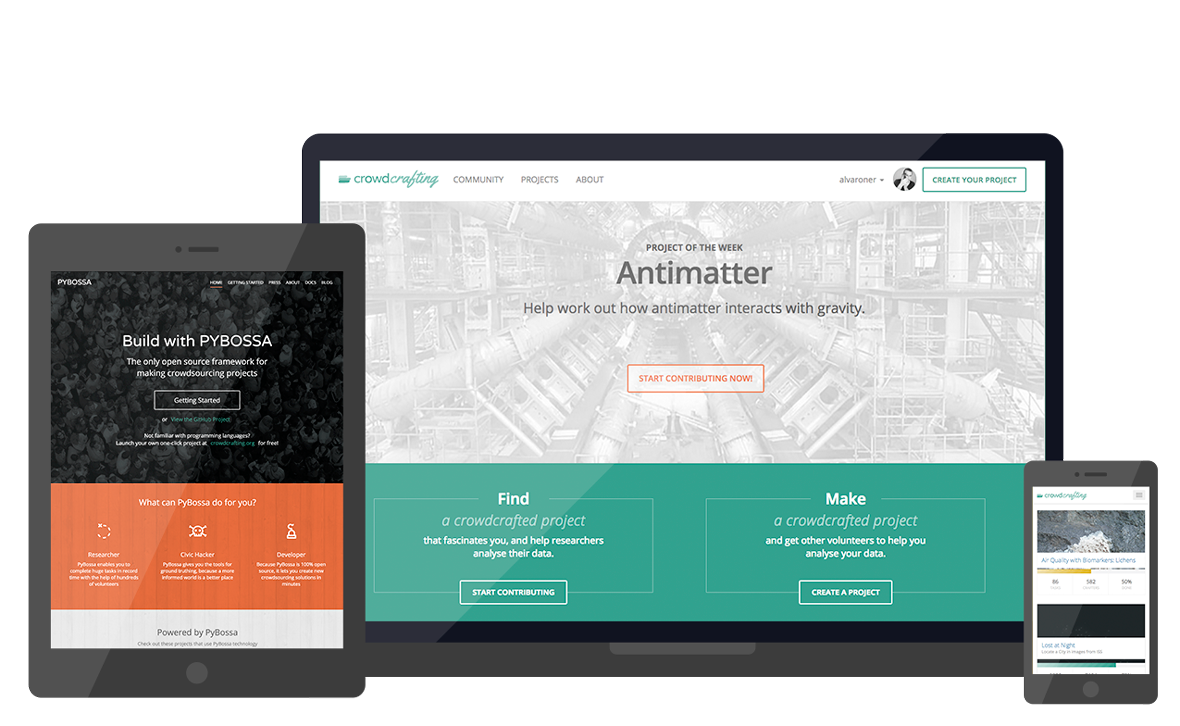
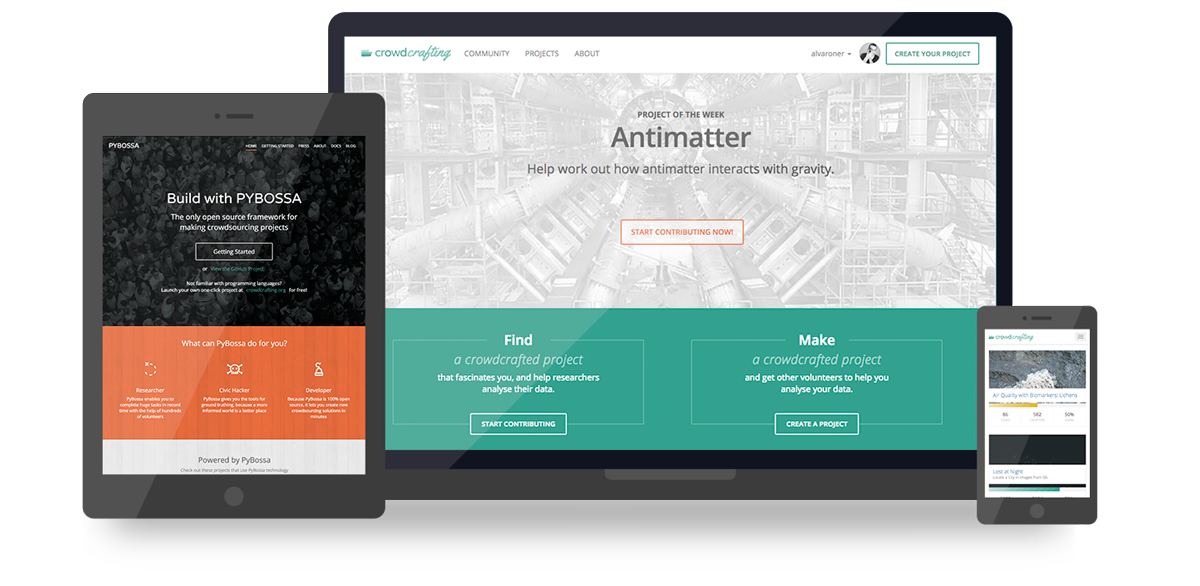
Devices Shadow - Better Text

diff --git a/index.html b/index.html
@@ -31,7 +31,7 @@ title: SciFabric - Bespoke solutions for crowdsourcing research
       </div>
       <div class="modal-body">
             <p><strong>Crowdcrafting is all about being user-friendly.</strong></p>
-            <p>It is designed to make setting up your project as straightforward and painless as possible, so that you can focus on what really matters. We have easy-to-use project templates and, if you need specific features, we got’em.</p>
+            <p>It is designed to make setting up your project as straightforward and painless as possible, so that you can focus on what really matters. We have easy-to-use project templates.</p>
             <p>At Crowdcrafting, you will have access to our community of amazing volunteers who contribute to the projects we host. </p>
             <p class="top20"><a href="http://crowdcrafting.org/" target="_blank" class="color-one semibold btn-link top20">visit crowdcrafting.org</a></p>
       </div>
@@ -100,7 +100,7 @@ title: SciFabric - Bespoke solutions for crowdsourcing research
 <div id="about" class="about"><a name="about"></a>
     <div class="container col-md-12 text-center">
         <h1 class="color-primary uppercase bold top90">Free open-source software</h1>
-        <h3 class="down70 color-one">SciFabric is a free, open-source software company<br /> focused on crowdsourcing science.</h3>
+        <h3 class="down70 color-one">SciFabric is an open-source software company<br /> focused on crowdsourcing science.</h3>
     </div>
 
     <div class="container pbandcc">
@@ -202,7 +202,7 @@ title: SciFabric - Bespoke solutions for crowdsourcing research
     <div class="container">
         <div class="col-md-12">
             <h1 class="text-center uppercase bold top90">Tailoring</h1>
-            <h3 class="text-center down70">How can we help you build up your own project?</h3>
+            <h3 class="text-center down70">How can we help you to build your own project?</h3>
         </div>
         <div class="col-md-4 text-center">
             <img src="images/training.png" class="hires tailor-icons"/>

diff --git a/css/main.css b/css/main.css
@@ -350,8 +350,7 @@ only screen and (min-device-pixel-ratio: 2) {
 
       .about .pbandcc {
         background: transparent url('../images/devices_scifabric.png') no-repeat bottom center; 
-        padding-bottom:650px;
-        margin-bottom: 60px;
+        padding-bottom:675px;
       }
 }
 
@@ -360,7 +359,6 @@ only screen and (min-device-pixel-ratio: 2) {
         .about .pbandcc {
         background: transparent url('../images/devices_scifabric_950.png') no-repeat bottom center; 
         padding-bottom:550px;
-         margin-bottom: 40px;
       }
 
 }
@@ -370,7 +368,6 @@ only screen and (min-device-pixel-ratio: 2) {
         .about .pbandcc {
         background: transparent url('../images/devices_scifabric_750.png') no-repeat bottom center; 
         padding-bottom:450px;
-         margin-bottom: 40px;
       }
 
 }
